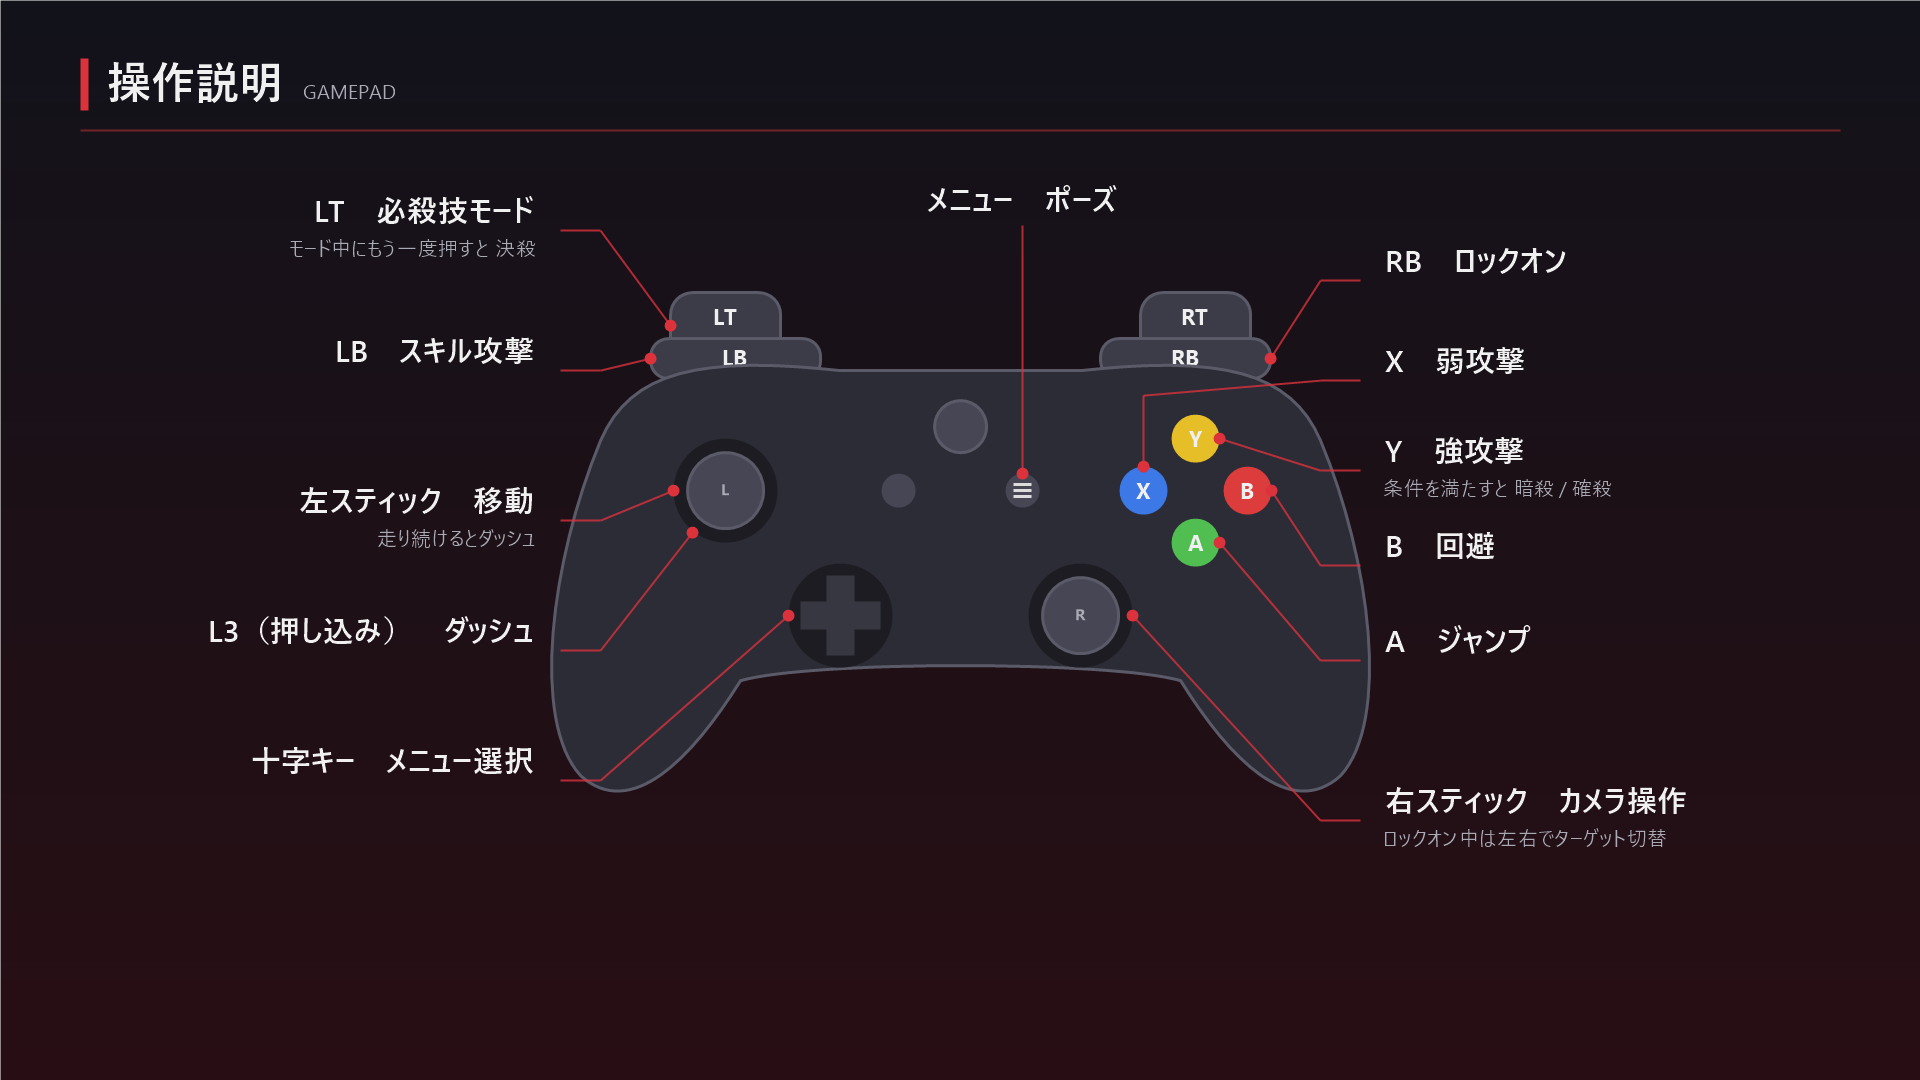
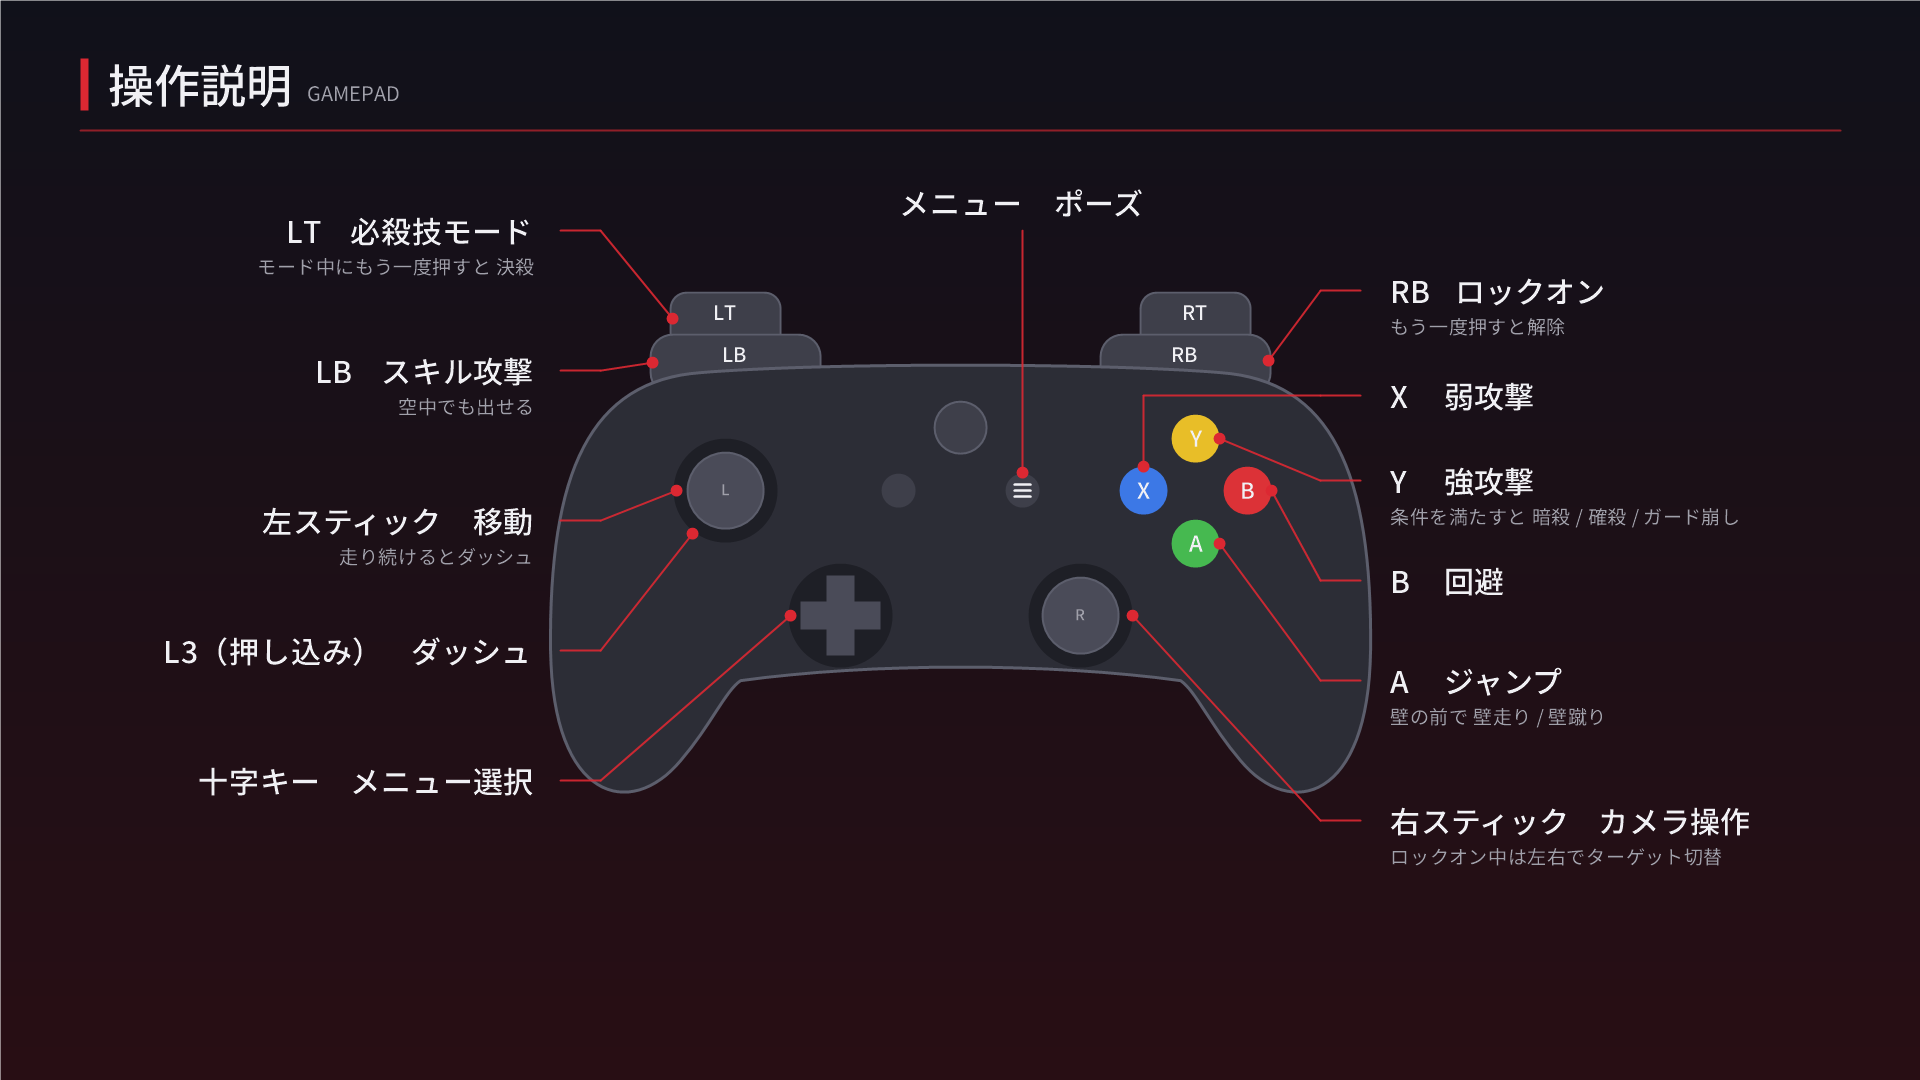
upu

diff --git a/CLAUDE.md b/CLAUDE.md
@@ -11,7 +11,7 @@
 - `testModel_Ninja/` — Blenderモデル（`player_color.blend`）とアニメーション素材
 - `Xbox Series/` — コントローラーアイコン素材
 - `進捗/` — 企画書（.pptx）、コスト表（.xlsx）、進捗メモなどのドキュメント類
-- `tools/` — 作業用ツール（`BossArmExtract/`: ボスのmv1から腕を切り出すDxLibツール、`KingmechGatling/`: Kingmechのガトリングを切り出すDxLibツール、`TrainTunnel/`: ループ用トンネルを作るBlenderスクリプト、`TrainStage/`: 列車ステージを作るBlenderスクリプト(調整はUnityの `ninja_motion/Assets/Editor/TrainStageTool.cs` で行う)、`FbxToMv1/`: Blender→.x→mv1 の変換とDxLibでのプレビュー、`CyberStage/`: ステージ1(Ch1)の設計と Unity での作り方。ツールは Unity の `ninja_motion/Assets/Editor/CyberStageTool.cs`、`MenuUIGen/`: メニューUIの仮素材PNGを作るPowerShellスクリプト、`AssasinUIGen/`: 暗殺UI・確殺UIの画像PNGを作るPowerShellスクリプト、`HairLod/`: mv1の髪のメッシュをBlenderなしで間引くDxLibツール、`PlayerAnim/`: メッシュはそのままで Player03.mv1 にアニメを足す手順とツール、`BloodDecalGen/`: 床に残る血の跡の画像PNGを作るPowerShellスクリプト）
+- `tools/` — 作業用ツール（`BossArmExtract/`: ボスのmv1から腕を切り出すDxLibツール、`KingmechGatling/`: Kingmechのガトリングを切り出すDxLibツール、`TrainTunnel/`: ループ用トンネルを作るBlenderスクリプト、`TrainStage/`: 列車ステージを作るBlenderスクリプト(調整はUnityの `ninja_motion/Assets/Editor/TrainStageTool.cs` で行う)、`FbxToMv1/`: Blender→.x→mv1 の変換とDxLibでのプレビュー、`CyberStage/`: ステージ1(Ch1)の設計と Unity での作り方。ツールは Unity の `ninja_motion/Assets/Editor/CyberStageTool.cs`、`MenuUIGen/`: メニューUIの仮素材PNGを作るPowerShellスクリプト、`AssasinUIGen/`: 暗殺UI・確殺UIの画像PNGを作るPowerShellスクリプト、`HairLod/`: mv1の髪のメッシュをBlenderなしで間引くDxLibツール、`PlayerAnim/`: メッシュはそのままで Player03.mv1 にアニメを足す手順とツール、`BloodDecalGen/`: 床に残る血の跡の画像PNGを作るPowerShellスクリプト、`ControlGuideGen/`: 操作説明の画像(`進捗/操作説明_pad.png`)を作るPowerShellスクリプト）
 
 ## 運用ルール
 
